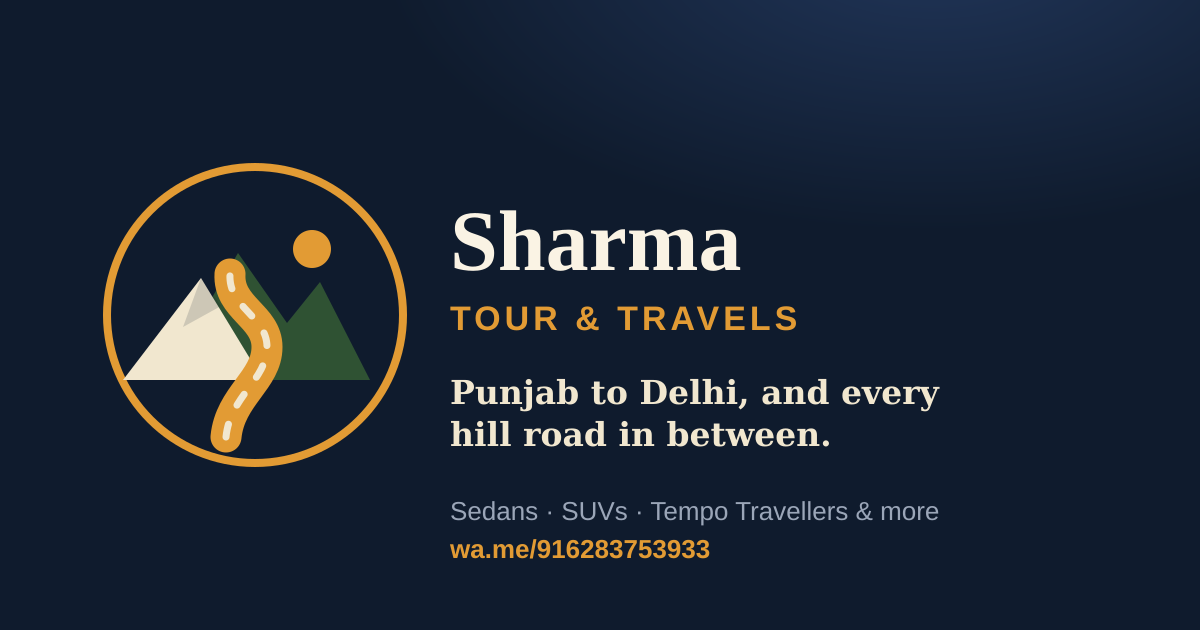
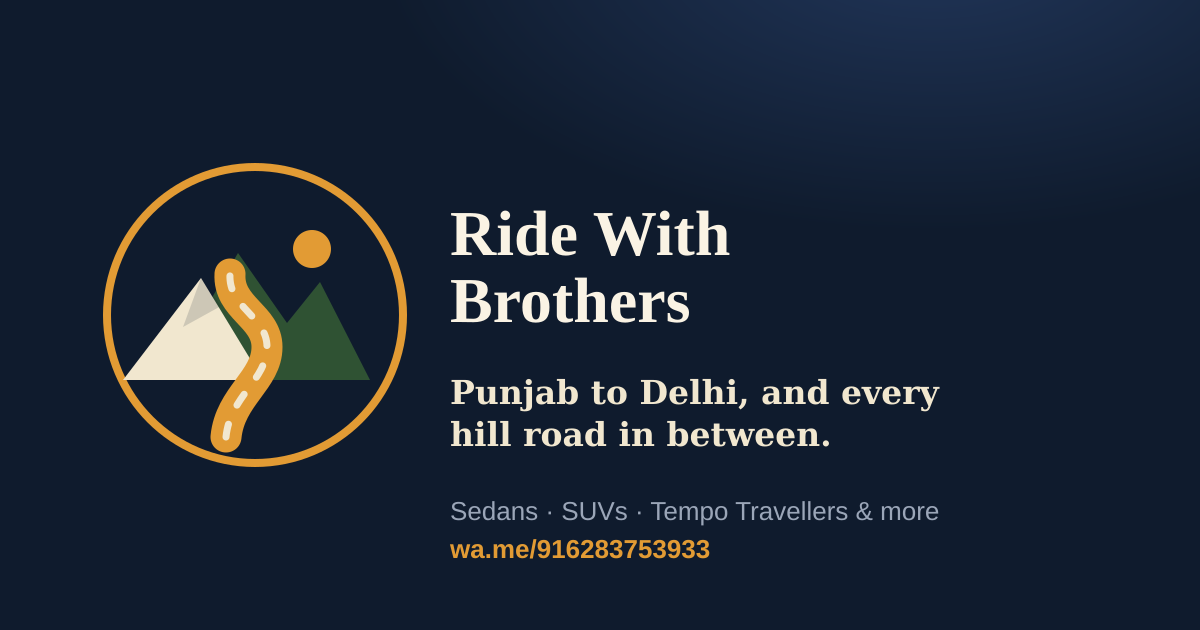
named edits

Changed region(s): [[0.37, 0.3317, 0.6783, 0.5429]]

diff --git a/index (1).html b/index (1).html
@@ -3,22 +3,22 @@
 <head>
 <meta charset="UTF-8">
 <meta name="viewport" content="width=device-width, initial-scale=1.0">
-<title>Sharma Tour &amp; Travels — Punjab to Delhi and beyond</title>
+<title>Ride With Brothers — Punjab to Delhi and beyond</title>
 <meta name="description" content="Sedans, SUVs and Tempo Travellers for Punjab–Delhi one-way trips and tour packages to Himachal, Kashmir, Uttarakhand, Rajasthan and Uttar Pradesh. Message us on WhatsApp for fares.">
 <link rel="icon" type="image/svg+xml" href="assets/logo-mark.svg">
 
 <meta property="og:type" content="website">
-<meta property="og:site_name" content="Sharma Tour & Travels">
+<meta property="og:site_name" content="Ride With Brothers">
 <meta property="og:locale" content="en_IN">
 <meta property="og:url" content="https://sharmatourstravels.netlify.app/">
-<meta property="og:title" content="Sharma Tour & Travels — Punjab to Delhi and beyond">
+<meta property="og:title" content="Ride With Brothers — Punjab to Delhi and beyond">
 <meta property="og:description" content="Sedans, SUVs and Tempo Travellers for Punjab–Delhi one-way trips, plus tour packages to Himachal, Kashmir, Uttarakhand, Rajasthan and Uttar Pradesh. Message us on WhatsApp for fares.">
 <meta property="og:image" content="https://sharmatourstravels.netlify.app/assets/og-image.png">
 <meta property="og:image:width" content="1200">
 <meta property="og:image:height" content="630">
 
 <meta name="twitter:card" content="summary_large_image">
-<meta name="twitter:title" content="Sharma Tour & Travels — Punjab to Delhi and beyond">
+<meta name="twitter:title" content="Ride With Brothers — Punjab to Delhi and beyond">
 <meta name="twitter:description" content="Sedans, SUVs and Tempo Travellers for Punjab–Delhi one-way trips, plus tour packages to Himachal, Kashmir, Uttarakhand, Rajasthan and Uttar Pradesh.">
 <meta name="twitter:image" content="https://sharmatourstravels.netlify.app/assets/og-image.png">
 <link rel="preconnect" href="https://fonts.googleapis.com">
@@ -222,6 +222,13 @@
   .carcard h4{font-family:'Fraunces',serif;font-weight:600;font-size:19px;margin:0 0 6px;}
   .carcard .seats{font-size:14px;color:#7A7259;margin-bottom:10px;}
   .carcard .desc{font-size:15px;color:#4B4535;}
+  .carcard-body .car-cta{
+    margin-top:14px;padding-top:12px;border-top:1px solid var(--line);
+    display:inline-flex;align-items:center;gap:7px;
+    font-size:13.5px;font-weight:600;color:#1f7a4d;text-decoration:none;
+  }
+  .carcard-body .car-cta svg{width:16px;height:16px;flex:none;color:#25D366;}
+  .carcard-body .car-cta:hover{color:#145c37;}
   @media (max-width:900px){.cargrid{grid-template-columns:repeat(2,1fr);}}
   @media (max-width:560px){.cargrid{grid-template-columns:1fr;}}
 
@@ -327,7 +334,7 @@
     <div class="nav-left">
       <a href="#top" class="brand">
         <svg class="mark" viewBox="0 0 40 40" xmlns="http://www.w3.org/2000/svg"><circle cx="20" cy="20" r="18" fill="none" stroke="#E29B34" stroke-width="1.4"/><circle cx="27" cy="12" r="2.4" fill="#E29B34"/><path d="M9 28 L18 12.5 L24 21 L28 16 L34 28 Z" fill="#2F5233"/><path d="M4 28 L13.5 15.5 L21 28 Z" fill="#F1E7CF"/><path d="M13.5 15.5 L16 19 L11.3 21.5 Z" fill="#0F1B2D" opacity="0.16"/><path d="M16.5 35 C17 30 21.5 28 21.5 24 C21.5 20.2 16.8 19.3 17 15" fill="none" stroke="#E29B34" stroke-width="3.8" stroke-linecap="round"/><path d="M16.5 35 C17 30 21.5 28 21.5 24 C21.5 20.2 16.8 19.3 17 15" fill="none" stroke="#F1E7CF" stroke-width="0.9" stroke-linecap="round" stroke-dasharray="1.6 2.6"/></svg>
-        Sharma Tour &amp; Travels
+        Ride With Brothers
       </a>
       <div class="langswitch" role="group" aria-label="Choose language">
         <button type="button" data-lang="en" class="active">EN</button>
@@ -441,6 +448,7 @@
               <h4>Honda Amaze</h4>
               <div class="seats" data-i18n="car.seats.4std">4 seats · AC · luggage for 2–3 bags</div>
               <p class="desc" data-i18n="car.amaze.desc">Comfortable and fuel-efficient — a popular pick for city runs and short outstation trips.</p>
+              <a class="car-cta" href="https://wa.me/916283753933?text=Hi%2C%20I%27d%20like%20to%20enquire%20about%20the%20Honda%20Amaze." target="_blank" rel="noopener"><svg viewBox="0 0 24 24" fill="currentColor"><path d="M17.5 14.4c-.3-.1-1.7-.8-2-.9-.3-.1-.5-.1-.6.1-.2.3-.7.9-.9 1.1-.2.2-.3.2-.6.1-.3-.1-1.3-.5-2.4-1.5-.9-.8-1.5-1.8-1.7-2.1-.2-.3 0-.5.1-.6l.4-.5c.1-.1.2-.3.2-.4.1-.2 0-.3 0-.5-.1-.1-.6-1.5-.8-2-.2-.5-.4-.5-.6-.5h-.5c-.2 0-.5.1-.7.3-.2.3-.9.9-.9 2.1 0 1.2.9 2.4 1 2.6.1.2 1.8 2.8 4.4 3.9.6.3 1.1.4 1.5.5.6.2 1.2.2 1.6.1.5-.1 1.7-.7 1.9-1.3.2-.6.2-1.1.2-1.2-.1-.1-.3-.2-.6-.3z"/><path d="M12 2a10 10 0 0 0-8.6 15.1L2 22l5.1-1.3A10 10 0 1 0 12 2zm0 18.2c-1.6 0-3.1-.4-4.4-1.2l-.3-.2-3.1.8.8-3-.2-.3A8.2 8.2 0 1 1 12 20.2z"/></svg><span data-i18n="tours.cta">Enquire on WhatsApp</span></a>
             </div>
           </div>
           <div class="carcard has-photo">
@@ -449,6 +457,7 @@
               <h4>Maruti Swift Dzire</h4>
               <div class="seats" data-i18n="car.seats.4std">4 seats · AC · luggage for 2–3 bags</div>
               <p class="desc" data-i18n="car.dzire.desc">One of the most requested sedans on the Punjab–Delhi route for its smooth ride and mileage.</p>
+              <a class="car-cta" href="https://wa.me/916283753933?text=Hi%2C%20I%27d%20like%20to%20enquire%20about%20the%20Maruti%20Swift%20Dzire." target="_blank" rel="noopener"><svg viewBox="0 0 24 24" fill="currentColor"><path d="M17.5 14.4c-.3-.1-1.7-.8-2-.9-.3-.1-.5-.1-.6.1-.2.3-.7.9-.9 1.1-.2.2-.3.2-.6.1-.3-.1-1.3-.5-2.4-1.5-.9-.8-1.5-1.8-1.7-2.1-.2-.3 0-.5.1-.6l.4-.5c.1-.1.2-.3.2-.4.1-.2 0-.3 0-.5-.1-.1-.6-1.5-.8-2-.2-.5-.4-.5-.6-.5h-.5c-.2 0-.5.1-.7.3-.2.3-.9.9-.9 2.1 0 1.2.9 2.4 1 2.6.1.2 1.8 2.8 4.4 3.9.6.3 1.1.4 1.5.5.6.2 1.2.2 1.6.1.5-.1 1.7-.7 1.9-1.3.2-.6.2-1.1.2-1.2-.1-.1-.3-.2-.6-.3z"/><path d="M12 2a10 10 0 0 0-8.6 15.1L2 22l5.1-1.3A10 10 0 1 0 12 2zm0 18.2c-1.6 0-3.1-.4-4.4-1.2l-.3-.2-3.1.8.8-3-.2-.3A8.2 8.2 0 1 1 12 20.2z"/></svg><span data-i18n="tours.cta">Enquire on WhatsApp</span></a>
             </div>
           </div>
           <div class="carcard has-photo">
@@ -457,6 +466,7 @@
               <h4>Toyota Etios</h4>
               <div class="seats" data-i18n="car.etios.seats">4 seats · AC · roomy boot space</div>
               <p class="desc" data-i18n="car.etios.desc">A sturdy, spacious sedan that holds up well on longer highway stretches.</p>
+              <a class="car-cta" href="https://wa.me/916283753933?text=Hi%2C%20I%27d%20like%20to%20enquire%20about%20the%20Toyota%20Etios." target="_blank" rel="noopener"><svg viewBox="0 0 24 24" fill="currentColor"><path d="M17.5 14.4c-.3-.1-1.7-.8-2-.9-.3-.1-.5-.1-.6.1-.2.3-.7.9-.9 1.1-.2.2-.3.2-.6.1-.3-.1-1.3-.5-2.4-1.5-.9-.8-1.5-1.8-1.7-2.1-.2-.3 0-.5.1-.6l.4-.5c.1-.1.2-.3.2-.4.1-.2 0-.3 0-.5-.1-.1-.6-1.5-.8-2-.2-.5-.4-.5-.6-.5h-.5c-.2 0-.5.1-.7.3-.2.3-.9.9-.9 2.1 0 1.2.9 2.4 1 2.6.1.2 1.8 2.8 4.4 3.9.6.3 1.1.4 1.5.5.6.2 1.2.2 1.6.1.5-.1 1.7-.7 1.9-1.3.2-.6.2-1.1.2-1.2-.1-.1-.3-.2-.6-.3z"/><path d="M12 2a10 10 0 0 0-8.6 15.1L2 22l5.1-1.3A10 10 0 1 0 12 2zm0 18.2c-1.6 0-3.1-.4-4.4-1.2l-.3-.2-3.1.8.8-3-.2-.3A8.2 8.2 0 1 1 12 20.2z"/></svg><span data-i18n="tours.cta">Enquire on WhatsApp</span></a>
             </div>
           </div>
         </div>
@@ -471,6 +481,7 @@
               <h4>Toyota Innova Crysta</h4>
               <div class="seats" data-i18n="car.innova.seats">7 seats · AC · top pick for hill routes</div>
               <p class="desc" data-i18n="car.innova.desc">The go-to SUV for Himachal, Kashmir and Uttarakhand tours — stable and comfortable on winding roads.</p>
+              <a class="car-cta" href="https://wa.me/916283753933?text=Hi%2C%20I%27d%20like%20to%20enquire%20about%20the%20Toyota%20Innova%20Crysta." target="_blank" rel="noopener"><svg viewBox="0 0 24 24" fill="currentColor"><path d="M17.5 14.4c-.3-.1-1.7-.8-2-.9-.3-.1-.5-.1-.6.1-.2.3-.7.9-.9 1.1-.2.2-.3.2-.6.1-.3-.1-1.3-.5-2.4-1.5-.9-.8-1.5-1.8-1.7-2.1-.2-.3 0-.5.1-.6l.4-.5c.1-.1.2-.3.2-.4.1-.2 0-.3 0-.5-.1-.1-.6-1.5-.8-2-.2-.5-.4-.5-.6-.5h-.5c-.2 0-.5.1-.7.3-.2.3-.9.9-.9 2.1 0 1.2.9 2.4 1 2.6.1.2 1.8 2.8 4.4 3.9.6.3 1.1.4 1.5.5.6.2 1.2.2 1.6.1.5-.1 1.7-.7 1.9-1.3.2-.6.2-1.1.2-1.2-.1-.1-.3-.2-.6-.3z"/><path d="M12 2a10 10 0 0 0-8.6 15.1L2 22l5.1-1.3A10 10 0 1 0 12 2zm0 18.2c-1.6 0-3.1-.4-4.4-1.2l-.3-.2-3.1.8.8-3-.2-.3A8.2 8.2 0 1 1 12 20.2z"/></svg><span data-i18n="tours.cta">Enquire on WhatsApp</span></a>
             </div>
           </div>
           <div class="carcard has-photo">
@@ -479,6 +490,7 @@
               <h4>Mahindra Marazzo</h4>
               <div class="seats" data-i18n="car.marazzo.seats">7 seats · AC · wide cabin space</div>
               <p class="desc" data-i18n="car.marazzo.desc">Generous legroom for families travelling together on longer tours.</p>
+              <a class="car-cta" href="https://wa.me/916283753933?text=Hi%2C%20I%27d%20like%20to%20enquire%20about%20the%20Mahindra%20Marazzo." target="_blank" rel="noopener"><svg viewBox="0 0 24 24" fill="currentColor"><path d="M17.5 14.4c-.3-.1-1.7-.8-2-.9-.3-.1-.5-.1-.6.1-.2.3-.7.9-.9 1.1-.2.2-.3.2-.6.1-.3-.1-1.3-.5-2.4-1.5-.9-.8-1.5-1.8-1.7-2.1-.2-.3 0-.5.1-.6l.4-.5c.1-.1.2-.3.2-.4.1-.2 0-.3 0-.5-.1-.1-.6-1.5-.8-2-.2-.5-.4-.5-.6-.5h-.5c-.2 0-.5.1-.7.3-.2.3-.9.9-.9 2.1 0 1.2.9 2.4 1 2.6.1.2 1.8 2.8 4.4 3.9.6.3 1.1.4 1.5.5.6.2 1.2.2 1.6.1.5-.1 1.7-.7 1.9-1.3.2-.6.2-1.1.2-1.2-.1-.1-.3-.2-.6-.3z"/><path d="M12 2a10 10 0 0 0-8.6 15.1L2 22l5.1-1.3A10 10 0 1 0 12 2zm0 18.2c-1.6 0-3.1-.4-4.4-1.2l-.3-.2-3.1.8.8-3-.2-.3A8.2 8.2 0 1 1 12 20.2z"/></svg><span data-i18n="tours.cta">Enquire on WhatsApp</span></a>
             </div>
           </div>
           <div class="carcard has-photo">
@@ -487,6 +499,7 @@
               <h4>Maruti Ertiga</h4>
               <div class="seats" data-i18n="car.ertiga.seats">7 seats · AC · easy on fuel for its size</div>
               <p class="desc" data-i18n="car.ertiga.desc">A practical, budget-friendly SUV option for small family groups.</p>
+              <a class="car-cta" href="https://wa.me/916283753933?text=Hi%2C%20I%27d%20like%20to%20enquire%20about%20the%20Maruti%20Ertiga." target="_blank" rel="noopener"><svg viewBox="0 0 24 24" fill="currentColor"><path d="M17.5 14.4c-.3-.1-1.7-.8-2-.9-.3-.1-.5-.1-.6.1-.2.3-.7.9-.9 1.1-.2.2-.3.2-.6.1-.3-.1-1.3-.5-2.4-1.5-.9-.8-1.5-1.8-1.7-2.1-.2-.3 0-.5.1-.6l.4-.5c.1-.1.2-.3.2-.4.1-.2 0-.3 0-.5-.1-.1-.6-1.5-.8-2-.2-.5-.4-.5-.6-.5h-.5c-.2 0-.5.1-.7.3-.2.3-.9.9-.9 2.1 0 1.2.9 2.4 1 2.6.1.2 1.8 2.8 4.4 3.9.6.3 1.1.4 1.5.5.6.2 1.2.2 1.6.1.5-.1 1.7-.7 1.9-1.3.2-.6.2-1.1.2-1.2-.1-.1-.3-.2-.6-.3z"/><path d="M12 2a10 10 0 0 0-8.6 15.1L2 22l5.1-1.3A10 10 0 1 0 12 2zm0 18.2c-1.6 0-3.1-.4-4.4-1.2l-.3-.2-3.1.8.8-3-.2-.3A8.2 8.2 0 1 1 12 20.2z"/></svg><span data-i18n="tours.cta">Enquire on WhatsApp</span></a>
             </div>
           </div>
           <div class="carcard has-photo">
@@ -495,6 +508,7 @@
               <h4 data-i18n="car.tt12.name">Tempo Traveller — 12 seater</h4>
               <div class="seats" data-i18n="car.tt12.seats">12 seats · AC · pushback seating available</div>
               <p class="desc" data-i18n="car.tt12.desc">Built for group tours and family functions where everyone travels together.</p>
+              <a class="car-cta" href="https://wa.me/916283753933?text=Hi%2C%20I%27d%20like%20to%20enquire%20about%20the%20Tempo%20Traveller%20%2812%20seater%29." target="_blank" rel="noopener"><svg viewBox="0 0 24 24" fill="currentColor"><path d="M17.5 14.4c-.3-.1-1.7-.8-2-.9-.3-.1-.5-.1-.6.1-.2.3-.7.9-.9 1.1-.2.2-.3.2-.6.1-.3-.1-1.3-.5-2.4-1.5-.9-.8-1.5-1.8-1.7-2.1-.2-.3 0-.5.1-.6l.4-.5c.1-.1.2-.3.2-.4.1-.2 0-.3 0-.5-.1-.1-.6-1.5-.8-2-.2-.5-.4-.5-.6-.5h-.5c-.2 0-.5.1-.7.3-.2.3-.9.9-.9 2.1 0 1.2.9 2.4 1 2.6.1.2 1.8 2.8 4.4 3.9.6.3 1.1.4 1.5.5.6.2 1.2.2 1.6.1.5-.1 1.7-.7 1.9-1.3.2-.6.2-1.1.2-1.2-.1-.1-.3-.2-.6-.3z"/><path d="M12 2a10 10 0 0 0-8.6 15.1L2 22l5.1-1.3A10 10 0 1 0 12 2zm0 18.2c-1.6 0-3.1-.4-4.4-1.2l-.3-.2-3.1.8.8-3-.2-.3A8.2 8.2 0 1 1 12 20.2z"/></svg><span data-i18n="tours.cta">Enquire on WhatsApp</span></a>
             </div>
           </div>
           <div class="carcard has-photo">
@@ -503,6 +517,7 @@
               <h4 data-i18n="car.tt16.name">Tempo Traveller — 16 seater</h4>
               <div class="seats" data-i18n="car.tt16.seats">16 seats · AC · more room for luggage</div>
               <p class="desc" data-i18n="car.tt16.desc">For larger groups — school trips, weddings, or a big family holiday.</p>
+              <a class="car-cta" href="https://wa.me/916283753933?text=Hi%2C%20I%27d%20like%20to%20enquire%20about%20the%20Tempo%20Traveller%20%2816%20seater%29." target="_blank" rel="noopener"><svg viewBox="0 0 24 24" fill="currentColor"><path d="M17.5 14.4c-.3-.1-1.7-.8-2-.9-.3-.1-.5-.1-.6.1-.2.3-.7.9-.9 1.1-.2.2-.3.2-.6.1-.3-.1-1.3-.5-2.4-1.5-.9-.8-1.5-1.8-1.7-2.1-.2-.3 0-.5.1-.6l.4-.5c.1-.1.2-.3.2-.4.1-.2 0-.3 0-.5-.1-.1-.6-1.5-.8-2-.2-.5-.4-.5-.6-.5h-.5c-.2 0-.5.1-.7.3-.2.3-.9.9-.9 2.1 0 1.2.9 2.4 1 2.6.1.2 1.8 2.8 4.4 3.9.6.3 1.1.4 1.5.5.6.2 1.2.2 1.6.1.5-.1 1.7-.7 1.9-1.3.2-.6.2-1.1.2-1.2-.1-.1-.3-.2-.6-.3z"/><path d="M12 2a10 10 0 0 0-8.6 15.1L2 22l5.1-1.3A10 10 0 1 0 12 2zm0 18.2c-1.6 0-3.1-.4-4.4-1.2l-.3-.2-3.1.8.8-3-.2-.3A8.2 8.2 0 1 1 12 20.2z"/></svg><span data-i18n="tours.cta">Enquire on WhatsApp</span></a>
             </div>
           </div>
           <div class="carcard has-photo">
@@ -511,6 +526,7 @@
               <h4>Force Urbania — 12 &amp; 16 seater</h4>
               <div class="seats" data-i18n="car.urbania.seats">12 or 16 seats · AC · premium high-roof cabin</div>
               <p class="desc" data-i18n="car.urbania.desc">Our most premium group vehicle — extra headroom and a smoother ride for longer tours.</p>
+              <a class="car-cta" href="https://wa.me/916283753933?text=Hi%2C%20I%27d%20like%20to%20enquire%20about%20the%20Force%20Urbania." target="_blank" rel="noopener"><svg viewBox="0 0 24 24" fill="currentColor"><path d="M17.5 14.4c-.3-.1-1.7-.8-2-.9-.3-.1-.5-.1-.6.1-.2.3-.7.9-.9 1.1-.2.2-.3.2-.6.1-.3-.1-1.3-.5-2.4-1.5-.9-.8-1.5-1.8-1.7-2.1-.2-.3 0-.5.1-.6l.4-.5c.1-.1.2-.3.2-.4.1-.2 0-.3 0-.5-.1-.1-.6-1.5-.8-2-.2-.5-.4-.5-.6-.5h-.5c-.2 0-.5.1-.7.3-.2.3-.9.9-.9 2.1 0 1.2.9 2.4 1 2.6.1.2 1.8 2.8 4.4 3.9.6.3 1.1.4 1.5.5.6.2 1.2.2 1.6.1.5-.1 1.7-.7 1.9-1.3.2-.6.2-1.1.2-1.2-.1-.1-.3-.2-.6-.3z"/><path d="M12 2a10 10 0 0 0-8.6 15.1L2 22l5.1-1.3A10 10 0 1 0 12 2zm0 18.2c-1.6 0-3.1-.4-4.4-1.2l-.3-.2-3.1.8.8-3-.2-.3A8.2 8.2 0 1 1 12 20.2z"/></svg><span data-i18n="tours.cta">Enquire on WhatsApp</span></a>
             </div>
           </div>
         </div>
@@ -672,7 +688,7 @@
       <div>
         <a href="#top" class="brand" style="margin-bottom:12px;">
           <svg class="mark" viewBox="0 0 40 40" xmlns="http://www.w3.org/2000/svg"><circle cx="20" cy="20" r="18" fill="none" stroke="#E29B34" stroke-width="1.4"/><circle cx="27" cy="12" r="2.4" fill="#E29B34"/><path d="M9 28 L18 12.5 L24 21 L28 16 L34 28 Z" fill="#2F5233"/><path d="M4 28 L13.5 15.5 L21 28 Z" fill="#F1E7CF"/><path d="M13.5 15.5 L16 19 L11.3 21.5 Z" fill="#0F1B2D" opacity="0.16"/><path d="M16.5 35 C17 30 21.5 28 21.5 24 C21.5 20.2 16.8 19.3 17 15" fill="none" stroke="#E29B34" stroke-width="3.8" stroke-linecap="round"/><path d="M16.5 35 C17 30 21.5 28 21.5 24 C21.5 20.2 16.8 19.3 17 15" fill="none" stroke="#F1E7CF" stroke-width="0.9" stroke-linecap="round" stroke-dasharray="1.6 2.6"/></svg>
-          Sharma Tour &amp; Travels
+          Ride With Brothers
         </a>
         <p style="max-width:32ch;font-size:14.5px;" data-i18n="footer.tagline">Sedans, SUVs and Tempo Travellers for Punjab, Delhi and tours across North India.</p>
       </div>
@@ -690,7 +706,7 @@
       </div>
     </div>
     <div class="footbottom">
-      <span data-i18n="footer.copyright">© 2026 Sharma Tour &amp; Travels. All fares confirmed individually on WhatsApp.</span>
+      <span data-i18n="footer.copyright">© 2026 Ride With Brothers. All fares confirmed individually on WhatsApp.</span>
       <span data-i18n="footer.location">Based in Punjab, serving Delhi and North India.</span>
     </div>
   </div>
@@ -775,7 +791,7 @@
       "footer.tagline":"पंजाब, दिल्ली और उत्तर भारत में टूर के लिए सेडान, एसयूवी और टेम्पो ट्रैवलर।",
       "footer.explore":"जानकारी","footer.link.fleet":"हमारी गाड़ियां","footer.link.oneway":"पंजाब–दिल्ली सेवा","footer.link.tours":"टूर पैकेज","footer.link.about":"हमारे बारे में",
       "footer.contact":"संपर्क करें","footer.whatsapp":"व्हाट्सएप: +91 62837 53933","footer.call":"कॉल: +91 62837 53933",
-      "footer.copyright":"© 2026 शर्मा टूर एंड ट्रैवल्स। सभी किराए व्हाट्सएप पर अलग से तय किए जाते हैं।",
+      "footer.copyright":"© 2026 Ride With Brothers। सभी किराए व्हाट्सएप पर अलग से तय किए जाते हैं।",
       "footer.location":"पंजाब में स्थित, दिल्ली और उत्तर भारत की सेवा।"
     },
     pa: {
@@ -846,7 +862,7 @@
       "footer.tagline":"ਪੰਜਾਬ, ਦਿੱਲੀ ਅਤੇ ਉੱਤਰ ਭਾਰਤ ਵਿੱਚ ਟੂਰ ਲਈ ਸੇਡਾਨ, ਐਸਯੂਵੀ ਅਤੇ ਟੈਂਪੋ ਟਰੈਵਲਰ।",
       "footer.explore":"ਜਾਣਕਾਰੀ","footer.link.fleet":"ਸਾਡੀਆਂ ਗੱਡੀਆਂ","footer.link.oneway":"ਪੰਜਾਬ–ਦਿੱਲੀ ਸੇਵਾ","footer.link.tours":"ਟੂਰ ਪੈਕੇਜ","footer.link.about":"ਸਾਡੇ ਬਾਰੇ",
       "footer.contact":"ਸੰਪਰਕ ਕਰੋ","footer.whatsapp":"ਵਟਸਐਪ: +91 62837 53933","footer.call":"ਕਾਲ: +91 62837 53933",
-      "footer.copyright":"© 2026 ਸ਼ਰਮਾ ਟੂਰ ਐਂਡ ਟਰੈਵਲਜ਼। ਸਾਰੇ ਕਿਰਾਏ ਵਟਸਐਪ ਤੇ ਵੱਖਰੇ ਤੌਰ ਤੇ ਤੈਅ ਕੀਤੇ ਜਾਂਦੇ ਹਨ।",
+      "footer.copyright":"© 2026 Ride With Brothers। ਸਾਰੇ ਕਿਰਾਏ ਵਟਸਐਪ ਤੇ ਵੱਖਰੇ ਤੌਰ ਤੇ ਤੈਅ ਕੀਤੇ ਜਾਂਦੇ ਹਨ।",
       "footer.location":"ਪੰਜਾਬ ਵਿੱਚ ਸਥਿਤ, ਦਿੱਲੀ ਅਤੇ ਉੱਤਰ ਭਾਰਤ ਦੀ ਸੇਵਾ।"
     }
   };
